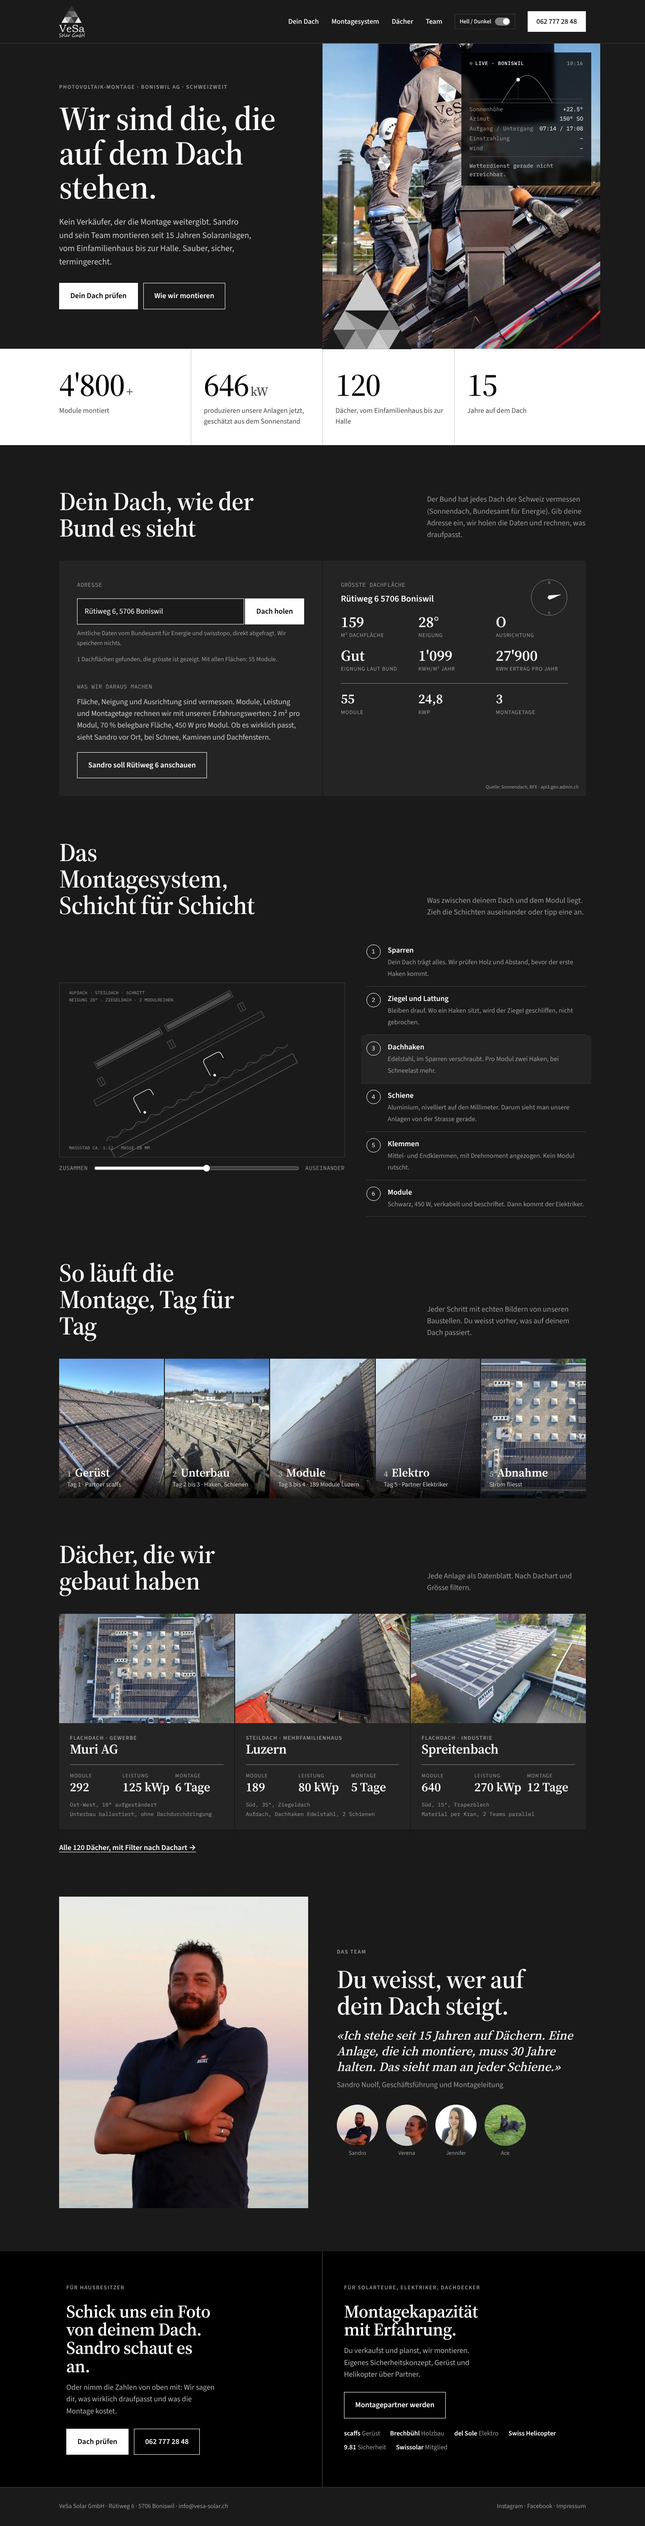
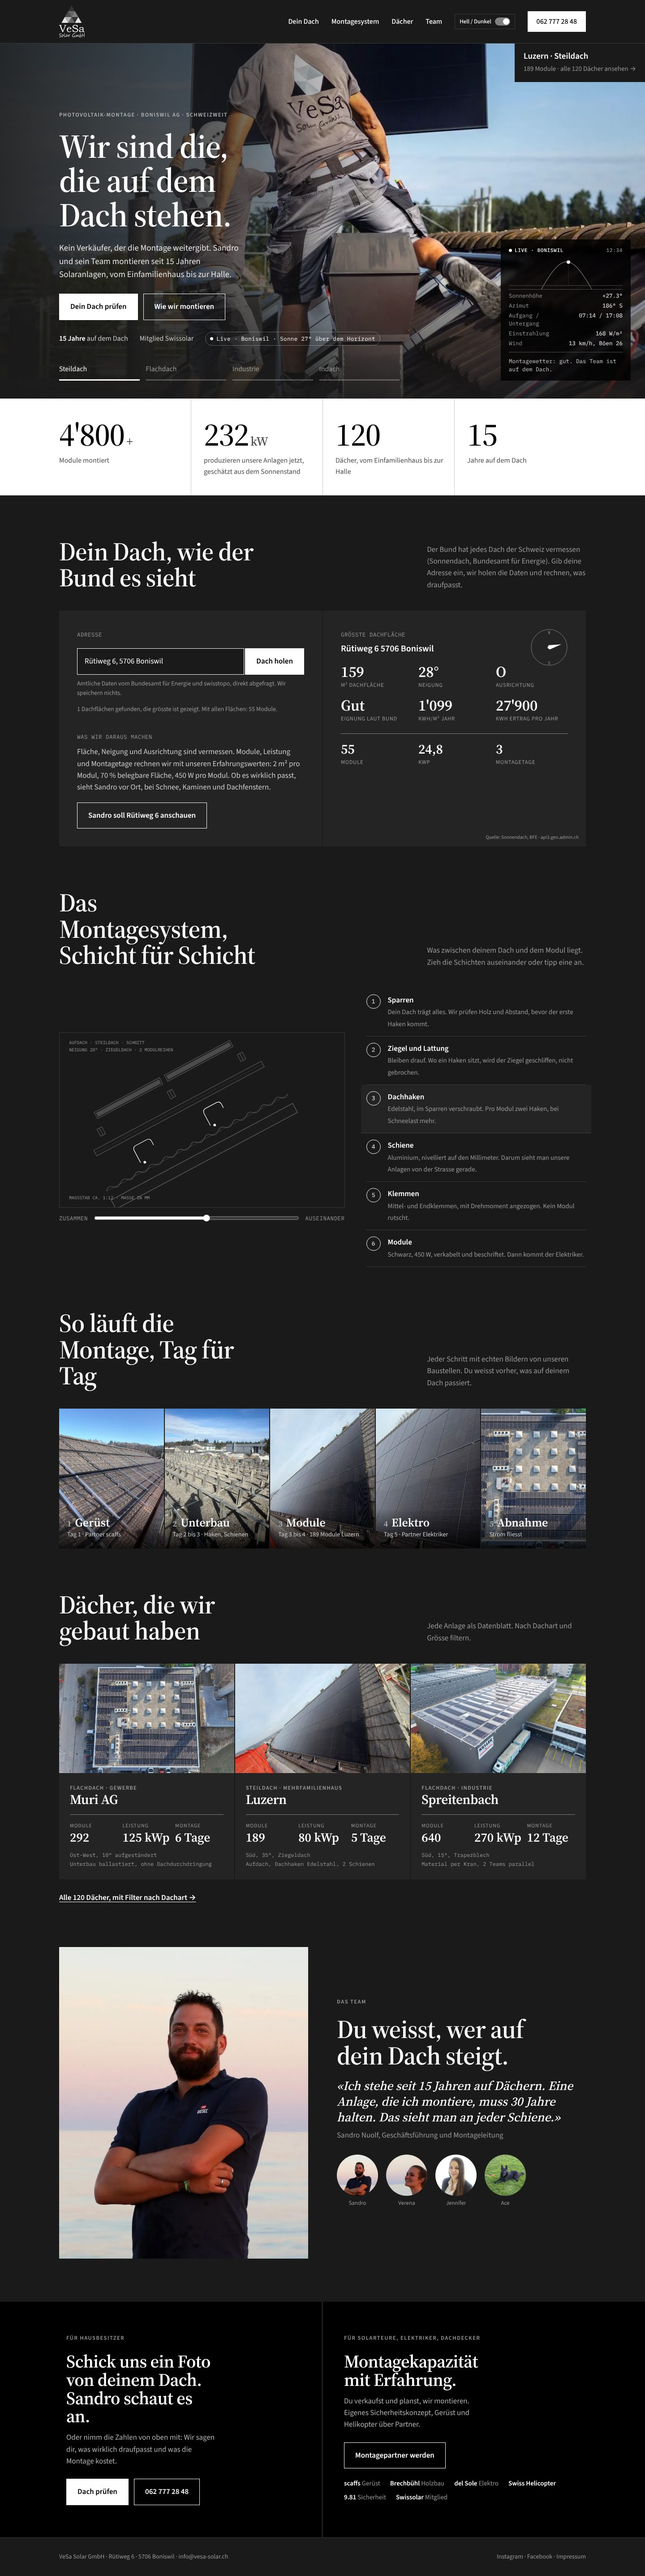
Slider in Entwurf E übernommen, Skript zum Aufbereiten der Fotos (VES-019, VES-020)
Claude-Session: https://claude.ai/code/session_01AmTsxfm8VPSTvFxMghAZew

diff --git a/entwuerfe/entwurf-e.html b/entwuerfe/entwurf-e.html
@@ -155,6 +155,58 @@ footer .wrap{display:flex;justify-content:space-between;flex-wrap:wrap;gap:10px}
  .steps{grid-template-columns:1fr 1fr} .cta .box{padding:44px 18px} .cta .box:first-child{border-right:0;border-bottom:1px solid #4d4d4d}
  section{padding:60px 0} .sec-h{flex-direction:column;align-items:flex-start}
 }
+
+/* ===== Kopf mit Foto (1) oder Slider (2) ===== */
+.hero2{position:relative;background:#1a1a1a;color:#fff;overflow:hidden;min-height:min(88vh,820px);display:flex;align-items:flex-end}
+.slides{position:absolute;inset:0}
+.slide{position:absolute;inset:0;margin:0;opacity:0;transition:opacity .9s ease}
+.slide.on{opacity:1}
+.slide img{width:100%;height:100%;object-fit:cover;display:block;transform:scale(1.06);transition:transform 7s linear}
+.slide.on img{transform:scale(1)}
+.hero2::after{content:"";position:absolute;inset:0;pointer-events:none;background:linear-gradient(90deg,rgba(26,26,26,.92) 0%,rgba(26,26,26,.7) 34%,rgba(26,26,26,0) 62%),linear-gradient(0deg,rgba(26,26,26,.85) 0%,rgba(26,26,26,0) 40%)}
+.h2txt{position:relative;z-index:2;width:100%;padding:0 0 40px}
+.h2txt .kicker{color:#b3b3b3}
+.h2txt h1{color:#fff;max-width:13ch}
+.h2txt p{max-width:44ch;margin:22px 0 28px;font-size:19px;color:#e6e6e6}
+.h2txt .btn{border-color:#fff;color:#fff}
+.h2txt .btn.p{background:#fff;color:#000}
+.trust{display:flex;flex-wrap:wrap;gap:8px 26px;margin-top:26px;color:#cccccc;font-size:16px;align-items:center}
+.trust b{color:#fff;font-weight:600}
+.chip{font-family:"IBM Plex Mono",monospace;font-size:12.5px;letter-spacing:.03em;border:1px solid rgba(255,255,255,.3);padding:5px 10px;border-radius:999px;color:#fff}
+.chip::before{content:"";display:inline-block;width:7px;height:7px;border-radius:50%;background:#fff;margin-right:7px;animation:blink 1.6s infinite;vertical-align:1px}
+.bars{display:grid;grid-template-columns:repeat(4,1fr);gap:14px;margin-top:40px;max-width:760px}
+.bars button{background:none;border:0;color:#999999;font:inherit;font-size:16px;text-align:left;padding:0;cursor:pointer}
+.bars button.on,.bars button:hover{color:#fff}
+.bars i{display:block;height:3px;background:rgba(255,255,255,.25);margin-top:10px;overflow:hidden}
+.bars u{display:block;height:100%;width:0;background:#fff}
+.bars button.done u{width:100%}
+.bars button.on u{animation:fill var(--dur,6s) linear forwards}
+.paused .bars button.on u{animation-play-state:paused}
+@keyframes fill{to{width:100%}}
+.cap{position:absolute;z-index:3;right:0;top:0;background:var(--bg);color:var(--fg);padding:14px 20px 16px;min-width:260px}
+.cap b{display:block;font-size:19px;font-weight:600}
+.cap span{color:var(--mute);font-size:15px}
+.hero2 .live{z-index:3;top:auto;bottom:40px;right:32px}
+html[data-hero="1"] .bars{display:none}
+@media(max-width:900px){
+ .hero2{display:block;min-height:0}
+ .slides{position:relative;height:50vh;min-height:330px;max-height:500px}
+ .hero2::after{background:linear-gradient(180deg,rgba(26,26,26,0) 0%,rgba(26,26,26,0) 38%,rgba(26,26,26,.88) 72%,#1a1a1a 92%);height:calc(50vh + 30px);max-height:540px;bottom:auto}
+ .h2txt{margin-top:-15vh;padding:0 0 22px}
+ .h2txt .kicker{font-size:11.5px;margin-bottom:12px} .h2txt .kicker .k-lang{display:none}
+ .h2txt h1{font-size:40px}
+ .h2txt p{display:none}
+ .h2txt .btns{margin-top:22px;display:block}
+ .h2txt .btn.p{display:block;text-align:center;border-radius:999px;padding:18px 24px;font-size:18px}
+ .h2txt .btn.s2{display:none}
+ .trust{margin-top:18px;font-size:14.5px;gap:8px 16px} .chip .c-lang{display:none}
+ .bars{gap:10px;margin-top:24px}
+ .bars button{font-size:14.5px}
+ .cap{min-width:0;max-width:72%;padding:10px 16px 12px}
+ .cap b{font-size:17px} .cap span{font-size:14px}
+ .hero2 .live{display:none}
+}
+@media (prefers-reduced-motion:reduce){.slide,.slide img{transition:none}.bars button.on u{animation:none;width:100%}}
 </style>
 </head>
 <body>
@@ -174,16 +226,15 @@ footer .wrap{display:flex;justify-content:space-between;flex-wrap:wrap;gap:10px}
  <div class="mob-sw"><span>Darstellung</span><button class="sw" type="button" aria-label="Hell oder dunkel"><span class="lbl-l">Hell</span><i></i><span class="lbl-d">Dunkel</span></button></div>
 </div></header>
 
-<div class="hero"><div class="wrap">
- <div class="txt">
-  <div class="kicker">Photovoltaik-Montage · Boniswil AG · schweizweit</div>
-  <h1>Wir sind die, die auf dem Dach stehen.</h1>
-  <p>Kein Verkäufer, der die Montage weitergibt. Sandro und sein Team montieren seit 15 Jahren Solaranlagen, vom Einfamilienhaus bis zur Halle. Sauber, sicher, termingerecht.</p>
-  <div class="btns"><a class="btn p" href="#dach">Dein Dach prüfen</a><a class="btn" href="#system">Wie wir montieren</a></div>
+<div class="hero2" id="hero">
+ <div class="slides" id="slides">
+  <figure class="slide on" data-t="Luzern · Steildach" data-s="189 Module"><img src="../fotos/monteur-dach.webp" alt="Zwei Monteure tragen ein Modul über ein Ziegeldach in Luzern" style="object-position:58% 30%"></figure>
+  <figure class="slide" data-t="Muri AG · Flachdach" data-s="292 Module"><img src="../fotos/muri-halle.webp" alt="Flachdach in Muri mit 292 Modulen von oben" style="object-position:50% 50%"></figure>
+  <figure class="slide" data-t="Spreitenbach · Industrie" data-s="640 Module"><img src="../fotos/keller-spreitenbach.webp" alt="Industriehalle in Spreitenbach mit Solaranlage" style="object-position:50% 45%"></figure>
+  <figure class="slide" data-t="Zürich · Indach" data-s="72 Module"><img src="../fotos/letzigraben.webp" alt="Mehrfamilienhaus in Zürich mit Indach-Anlage" style="object-position:50% 45%"></figure>
  </div>
- <div class="pic">
-  <img src="../fotos/monteur-dach.webp" alt="">
-  <div class="live" id="live">
+ <a class="cap" href="#daecher" id="cap"><b id="cap-t">Luzern · Steildach</b><span><span id="cap-s">189 Module</span> · alle 120 Dächer ansehen →</span></a>
+ <div class="live" id="live">
    <div class="t"><b>Live · Boniswil</b><span id="lv-time">–</span></div>
    <div class="sun"><svg viewBox="0 0 260 70" id="sunpath"></svg></div>
    <dl>
@@ -195,12 +246,20 @@ footer .wrap{display:flex;justify-content:space-between;flex-wrap:wrap;gap:10px}
    </dl>
    <div class="ok" id="lv-ok">Montagewetter wird geladen …</div>
   </div>
-  <svg class="tri" viewBox="0 0 220 190" aria-hidden="true">
-   <polygon points="0,190 110,0 220,190" fill="var(--tri)"/>
-   <polygon points="110,0 55,95 165,95" fill="#cccccc"/><polygon points="55,95 82.5,142.5 137.5,142.5" fill="#999999"/><polygon points="55,95 27.5,142.5 82.5,142.5" fill="#b3b3b3"/><polygon points="165,95 137.5,142.5 192.5,142.5" fill="#808080"/><polygon points="0,190 27.5,142.5 55,190" fill="#1a1a1a"/><polygon points="27.5,142.5 55,190 82.5,142.5" fill="#4d4d4d"/><polygon points="82.5,142.5 55,190 110,190" fill="#999999"/><polygon points="82.5,142.5 110,190 137.5,142.5" fill="#808080"/><polygon points="137.5,142.5 110,190 165,190" fill="#cccccc"/><polygon points="137.5,142.5 165,190 192.5,142.5" fill="#b3b3b3"/><polygon points="192.5,142.5 165,190 220,190" fill="#1a1a1a"/>
-  </svg>
- </div>
-</div></div>
+ <div class="h2txt"><div class="wrap">
+  <div class="kicker">Photovoltaik-Montage · Boniswil AG<span class="k-lang"> · schweizweit</span></div>
+  <h1>Wir sind die, die auf dem Dach stehen.</h1>
+  <p>Kein Verkäufer, der die Montage weitergibt. Sandro und sein Team montieren seit 15 Jahren Solaranlagen, vom Einfamilienhaus bis zur Halle.</p>
+  <div class="btns"><a class="btn p" href="#dach">Dein Dach prüfen</a><a class="btn s2" href="#system">Wie wir montieren</a></div>
+  <div class="trust"><span><b>15 Jahre</b> auf dem Dach</span><span>Mitglied Swissolar</span><span class="chip" id="lv-chip">Live · Boniswil</span></div>
+  <div class="bars" id="bars" role="tablist" aria-label="Dächer">
+   <button type="button" role="tab" class="on"><span>Steildach</span><i><u></u></i></button>
+   <button type="button" role="tab"><span>Flachdach</span><i><u></u></i></button>
+   <button type="button" role="tab"><span>Industrie</span><i><u></u></i></button>
+   <button type="button" role="tab"><span>Indach</span><i><u></u></i></button>
+  </div>
+ </div></div>
+</div>
 
 <div class="stats"><div class="wrap">
  <div class="stat"><div class="num">4'800<small>+</small></div><span>Module montiert</span></div>
@@ -368,6 +427,7 @@ function tick(){
  const now=new Date(), s=sunPos(now), c=dayCurve(now);
  document.getElementById('lv-time').textContent=fmtT(now);
  document.getElementById('lv-el').textContent=(s.el>0?'+':'')+s.el.toFixed(1)+'°';
+ const chip=document.getElementById('lv-chip'); if(chip) chip.innerHTML='Live<span class="c-lang"> · Boniswil</span> · '+(s.el>0?'Sonne '+Math.round(s.el)+'°<span class="c-lang"> über dem Horizont</span>':'Sonne untergegangen');
  document.getElementById('lv-az').textContent=s.az.toFixed(0)+'° '+azWord(s.az);
  document.getElementById('lv-rs').textContent=(c.rise?fmtT(c.rise):'–')+' / '+(c.set?fmtT(c.set):'–');
  const maxEl=Math.max(...c.pts.map(p=>p[1]));
@@ -431,6 +491,31 @@ sonnendach($('sdq').value);
  function hi(n){layers.forEach((l,i)=>l.style.opacity=(n==null||i==n)?1:.25);items.forEach((it,i)=>it.classList.toggle('on',i==n));}
  items.forEach((it,i)=>{it.onmouseenter=()=>hi(i);it.onclick=()=>hi(i)}); document.getElementById('layers').onmouseleave=()=>hi(2);
  hi(2);
+})();
+</script>
+
+<script>
+/* ---------- Kopf: Foto (1) oder Slider (2) ---------- */
+(function(){
+ const q=new URLSearchParams(location.search), mode=q.get('hero')||'2', r=document.documentElement; r.dataset.hero=mode;
+ const hero=document.getElementById('hero'), slides=[...document.querySelectorAll('.slide')], bars=[...document.querySelectorAll('#bars button')];
+ const capT=document.getElementById('cap-t'), capS=document.getElementById('cap-s');
+ const DUR=6000; let i=0, tm=null;
+ function show(n){
+  i=(n+slides.length)%slides.length;
+  slides.forEach((s,k)=>s.classList.toggle('on',k===i));
+  bars.forEach((b,k)=>{b.classList.toggle('on',k===i);b.classList.toggle('done',k<i);b.setAttribute('aria-selected',k===i);const u=b.querySelector('u');u.style.animation='none';u.offsetWidth;u.style.animation=''});
+  capT.textContent=slides[i].dataset.t; capS.textContent=slides[i].dataset.s;
+  clearTimeout(tm); if(mode==='2'&&!matchMedia('(prefers-reduced-motion:reduce)').matches) tm=setTimeout(()=>show(i+1),DUR);
+ }
+ if(mode==='1'){slides.slice(1).forEach(s=>s.remove());slides.length=1;show(0);return}
+ r.style.setProperty('--dur',DUR/1000+'s');
+ bars.forEach((b,k)=>b.onclick=()=>show(k));
+ let x0=null; const el=document.getElementById('slides');
+ el.addEventListener('touchstart',e=>{x0=e.touches[0].clientX},{passive:true});
+ el.addEventListener('touchend',e=>{if(x0==null)return;const dx=e.changedTouches[0].clientX-x0;if(Math.abs(dx)>40)show(i+(dx<0?1:-1));x0=null});
+ document.addEventListener('visibilitychange',()=>{if(document.hidden){clearTimeout(tm);hero.classList.add('paused')}else{hero.classList.remove('paused');show(i)}});
+ show(+(q.get('slide')||0));
 })();
 </script>
 </body></html>

diff --git a/entwuerfe/index.html b/entwuerfe/index.html
@@ -20,8 +20,8 @@ a span{color:var(--mute);font-size:15px}
 <body><main>
 <h1>VeSa Solar · Entwürfe</h1>
 <p>Startseite im Entwurf. Der aktuelle Stand ist E, die anderen bleiben zum Vergleich.</p>
-<a href="entwurf-e.html"><b>E · Logofarben, Hell/Dunkel, Technik</b><span>Dach-Abfrage beim Bund, Live-Tafel mit Sonnenstand, Montagesystem im Schnitt</span></a>
-<a href="entwurf-e-hero.html?hero=2"><b>E · Kopf 2 Slider</b><span>Vier Dächer im Wechsel, Balken zum Antippen, auf dem Handy Foto zuoberst</span></a>
+<a href="entwurf-e.html"><b>E · Logofarben, Hell/Dunkel, Technik, Slider</b><span>Slider im Kopf, Dach-Abfrage beim Bund, Live-Tafel, Montagesystem im Schnitt</span></a>
+<a href="entwurf-e-hero.html?hero=2"><b>E · Kopf 2 Slider</b><span>gewählt, steckt jetzt in E</span></a>
 <a href="entwurf-e-hero.html?hero=1"><b>E · Kopf 1 Foto</b><span>Ein grosses Foto zuoberst, ohne Wechsel</span></a>
 <a href="entwurf-e-verlauf.html?bg=1"><b>E · Verlauf 1 Fliessend</b><span>verworfen</span><span hidden><span></span></a>
 <a href="entwurf-e-verlauf.html?bg=2"><b>E · Verlauf 2 Stufen</b><span>verworfen</span><span hidden><span></span></a>

diff --git a/werkzeuge/fotos-aufbereiten.py b/werkzeuge/fotos-aufbereiten.py
@@ -1,0 +1,48 @@
+#!/usr/bin/env python3
+"""Fotos für die Seite aufbereiten.
+
+Nimmt Originale (JPG, auch 20 MB aus der Kamera), dreht sie nach EXIF richtig,
+entfernt die Metadaten (GPS, Kamera) und schreibt WebP in drei Breiten für
+srcset: 2400, 1600 und 900 px. Dazu ein Kontaktbogen zur Auswahl.
+
+    python3 werkzeuge/fotos-aufbereiten.py ORDNER_MIT_ORIGINALEN fotos/auftrag
+
+Ergebnis: fotos/auftrag/NAME-2400.webp, -1600.webp, -900.webp und
+fotos/auftrag/kontaktbogen.jpg. Die Originale bleiben, wo sie sind, und
+kommen nicht ins Repository.
+"""
+import sys, pathlib
+from PIL import Image, ImageOps, ImageDraw
+
+BREITEN = (2400, 1600, 900)
+QUALITAET = 78
+
+def aufbereiten(quelle: pathlib.Path, ziel: pathlib.Path):
+    ziel.mkdir(parents=True, exist_ok=True)
+    dateien = sorted(p for p in quelle.iterdir() if p.suffix.lower() in ('.jpg', '.jpeg', '.png', '.webp', '.tif', '.tiff'))
+    if not dateien:
+        sys.exit(f'Keine Bilder in {quelle}')
+    bogen = []
+    for p in dateien:
+        im = ImageOps.exif_transpose(Image.open(p)).convert('RGB')
+        name = p.stem.lower().replace(' ', '-')
+        for b in BREITEN:
+            k = im.copy()
+            if k.width > b:
+                k = k.resize((b, round(k.height * b / k.width)), Image.LANCZOS)
+            k.save(ziel / f'{name}-{b}.webp', 'WEBP', quality=QUALITAET, method=6)
+        groesse = sum((ziel / f'{name}-{b}.webp').stat().st_size for b in BREITEN) // 1024
+        print(f'{p.name}: {im.width}x{im.height} -> {name}-*.webp ({groesse} KB zusammen)')
+        t = im.copy(); t.thumbnail((360, 240)); bogen.append((name, t))
+    spalten = 5; zeilen = (len(bogen) + spalten - 1) // spalten
+    k = Image.new('RGB', (spalten * 370, zeilen * 270), 'white'); d = ImageDraw.Draw(k)
+    for i, (name, t) in enumerate(bogen):
+        x, y = (i % spalten) * 370 + 5, (i // spalten) * 270 + 5
+        k.paste(t, (x, y)); d.text((x, y + 244), name, fill='black')
+    k.save(ziel / 'kontaktbogen.jpg', quality=82)
+    print(f'{len(bogen)} Fotos, Kontaktbogen: {ziel / "kontaktbogen.jpg"}')
+
+if __name__ == '__main__':
+    if len(sys.argv) != 3:
+        sys.exit(__doc__)
+    aufbereiten(pathlib.Path(sys.argv[1]), pathlib.Path(sys.argv[2]))

diff --git a/LOGBUCH.md b/LOGBUCH.md
@@ -137,3 +137,20 @@ Die Vorgeschichte steht im formateins-Logbuch unter ENT-078 bis ENT-082.
   sofort). Renderings `entwuerfe/bilder/kopf-*.jpg`. Offen: Adrian wählt
   Foto oder Slider, dann kommt es in Entwurf E. Später mit den eigenen
   Auftragsfotos (VES-012).
+- [x] **VES-019** · 03.11.2026 · **Slider gewählt** (Adrian: «Slider mit
+  meinen Fotos»), schliesst die Wahl aus VES-018. Der Slider steckt jetzt in
+  `entwuerfe/entwurf-e.html`, vorerst mit den vier Fotos von der heutigen
+  VeSa-Seite. `entwurf-e-hero.html` bleibt als Beleg. Neues Skript
+  `werkzeuge/fotos-aufbereiten.py`: dreht Originale nach EXIF, entfernt die
+  Metadaten (GPS, Kamera), schreibt WebP in 2400, 1600 und 900 px für
+  `srcset` und einen Kontaktbogen zur Auswahl. An zwei Fotos geprüft.
+  Renderings von E neu, hell und dunkel, ohne Skriptfehler.
+- [ ] **VES-020** · 03.11.2026 · **Adrians Fotos in den Slider**. Weiterhin
+  blockiert wie in VES-012: Der Drive-Ordner «VESA Solar» ist privat (Google
+  leitet auf die Anmeldung um, um 12:20 erneut geprüft), und der
+  Drive-Zugang dieser Sitzung bricht bei Dateien ab etwa 6 MB ab. Wege:
+  Ordner per Link freigeben, oder 8 bis 12 ausgewählte Fotos direkt im
+  Repository hochladen (GitHub, Ordner `fotos/originale/`, Upload im
+  Browser bis 25 MB pro Datei). Danach Skript laufen lassen, Kontaktbogen
+  zeigen, Adrian wählt die vier bis sechs Slider-Bilder und je Bild Ort,
+  Dachart und Modulzahl. Originale danach wieder aus dem Repository.
